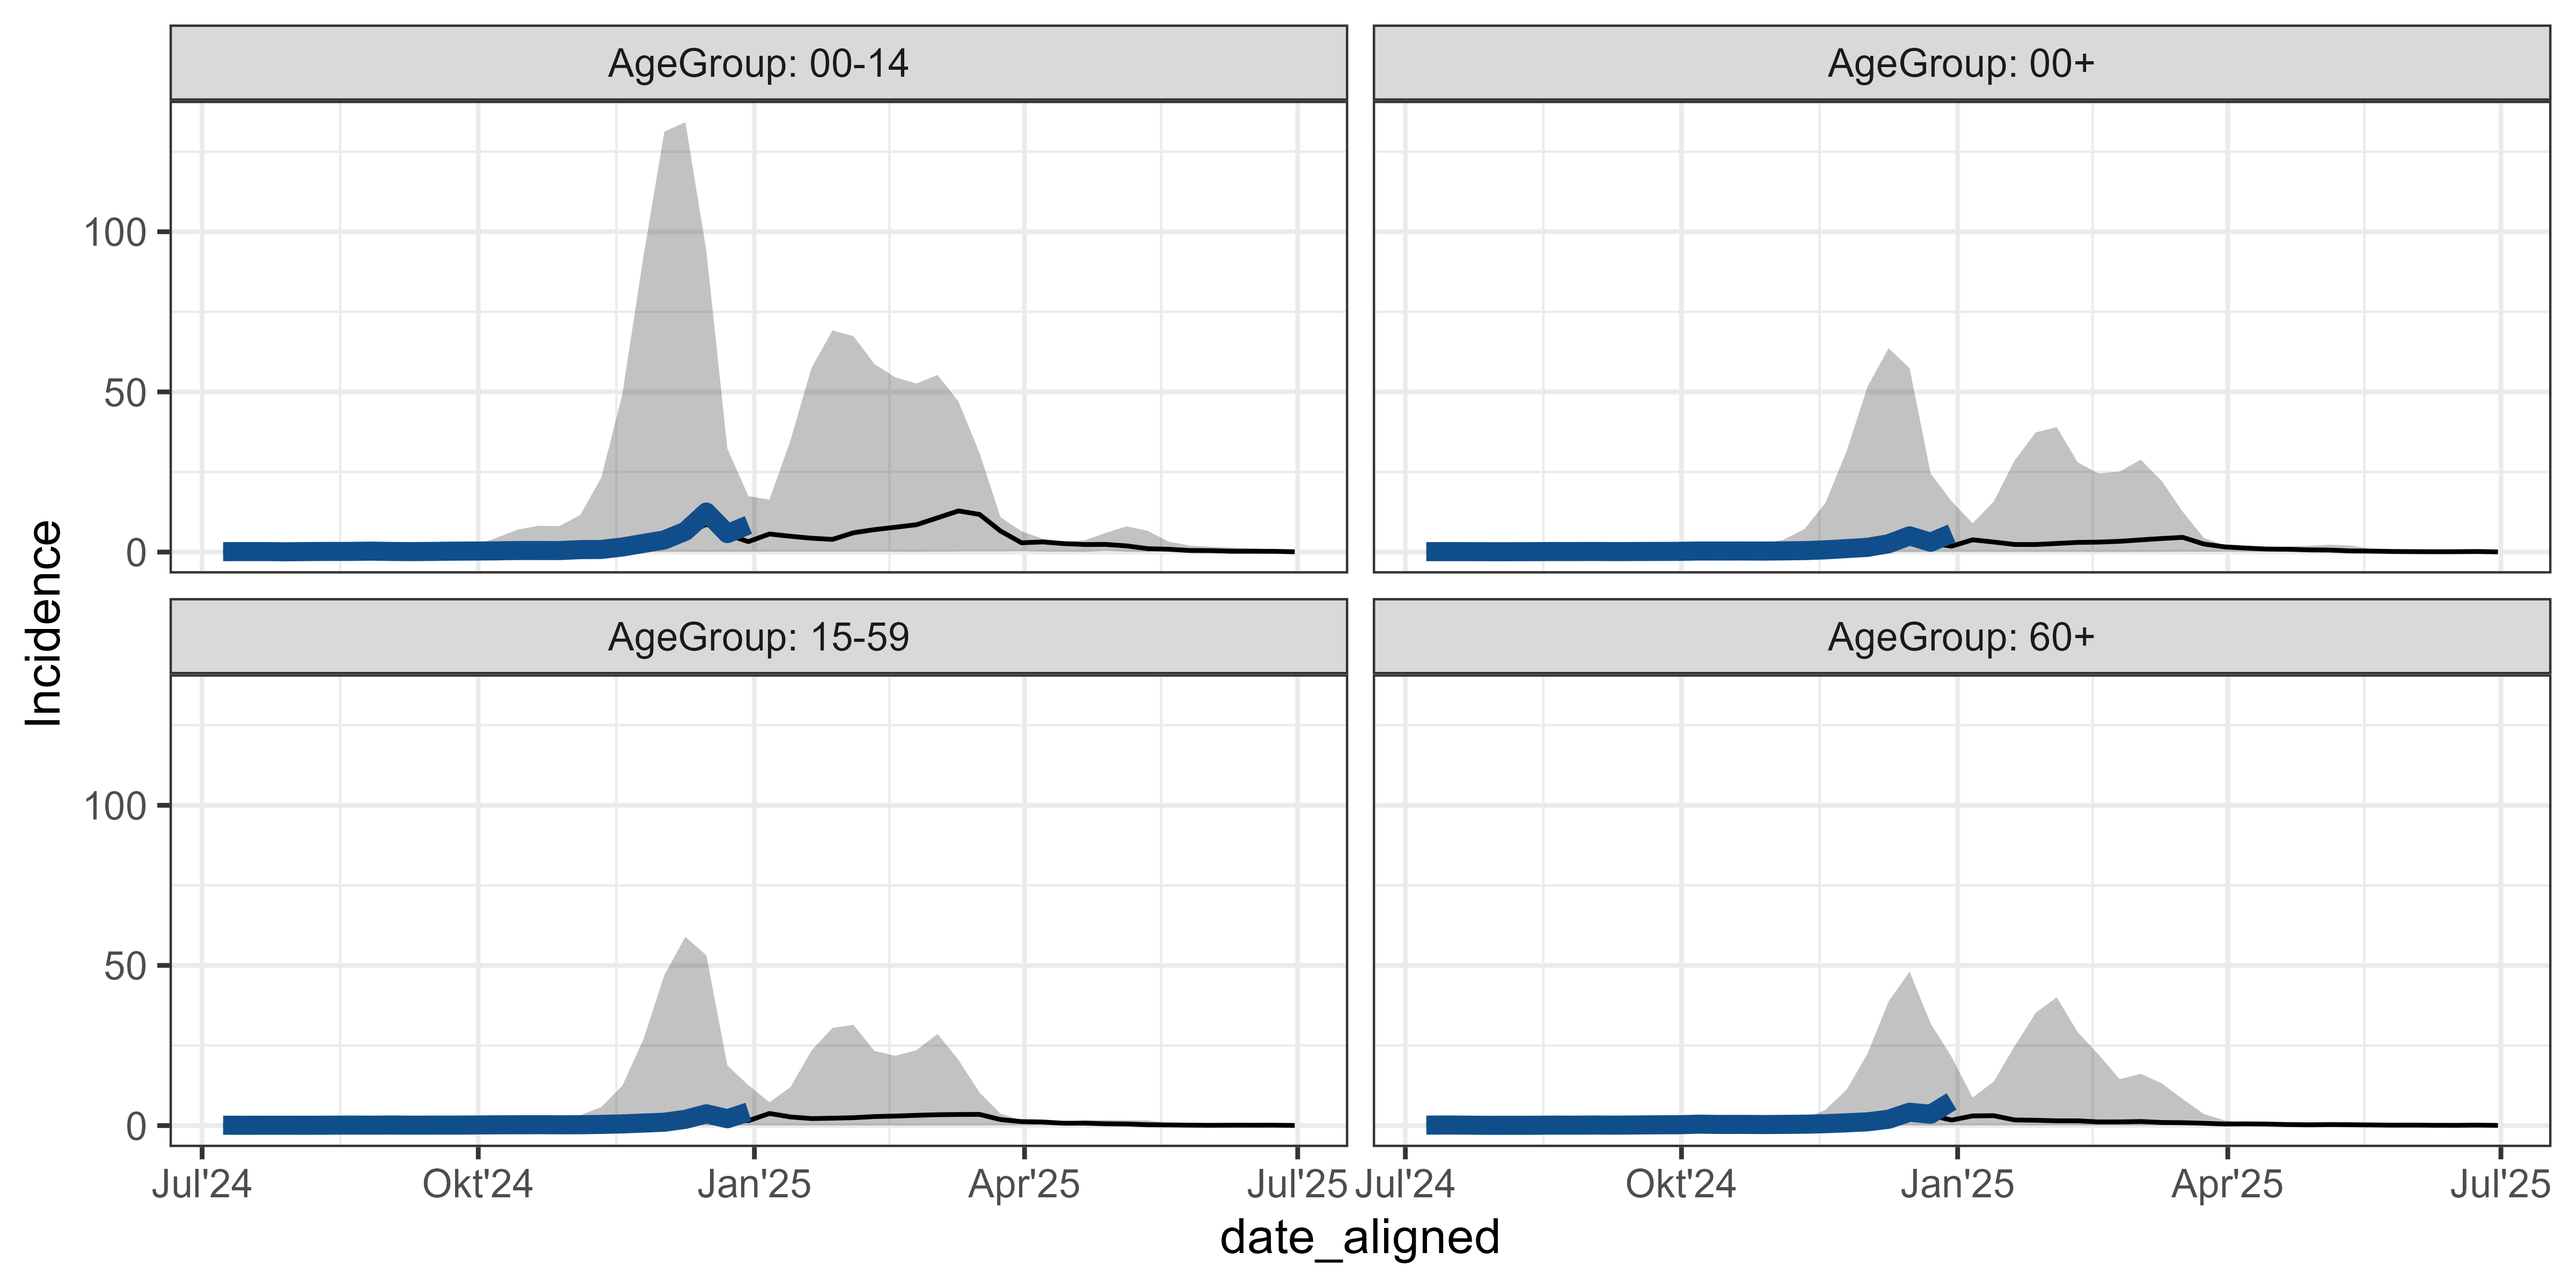
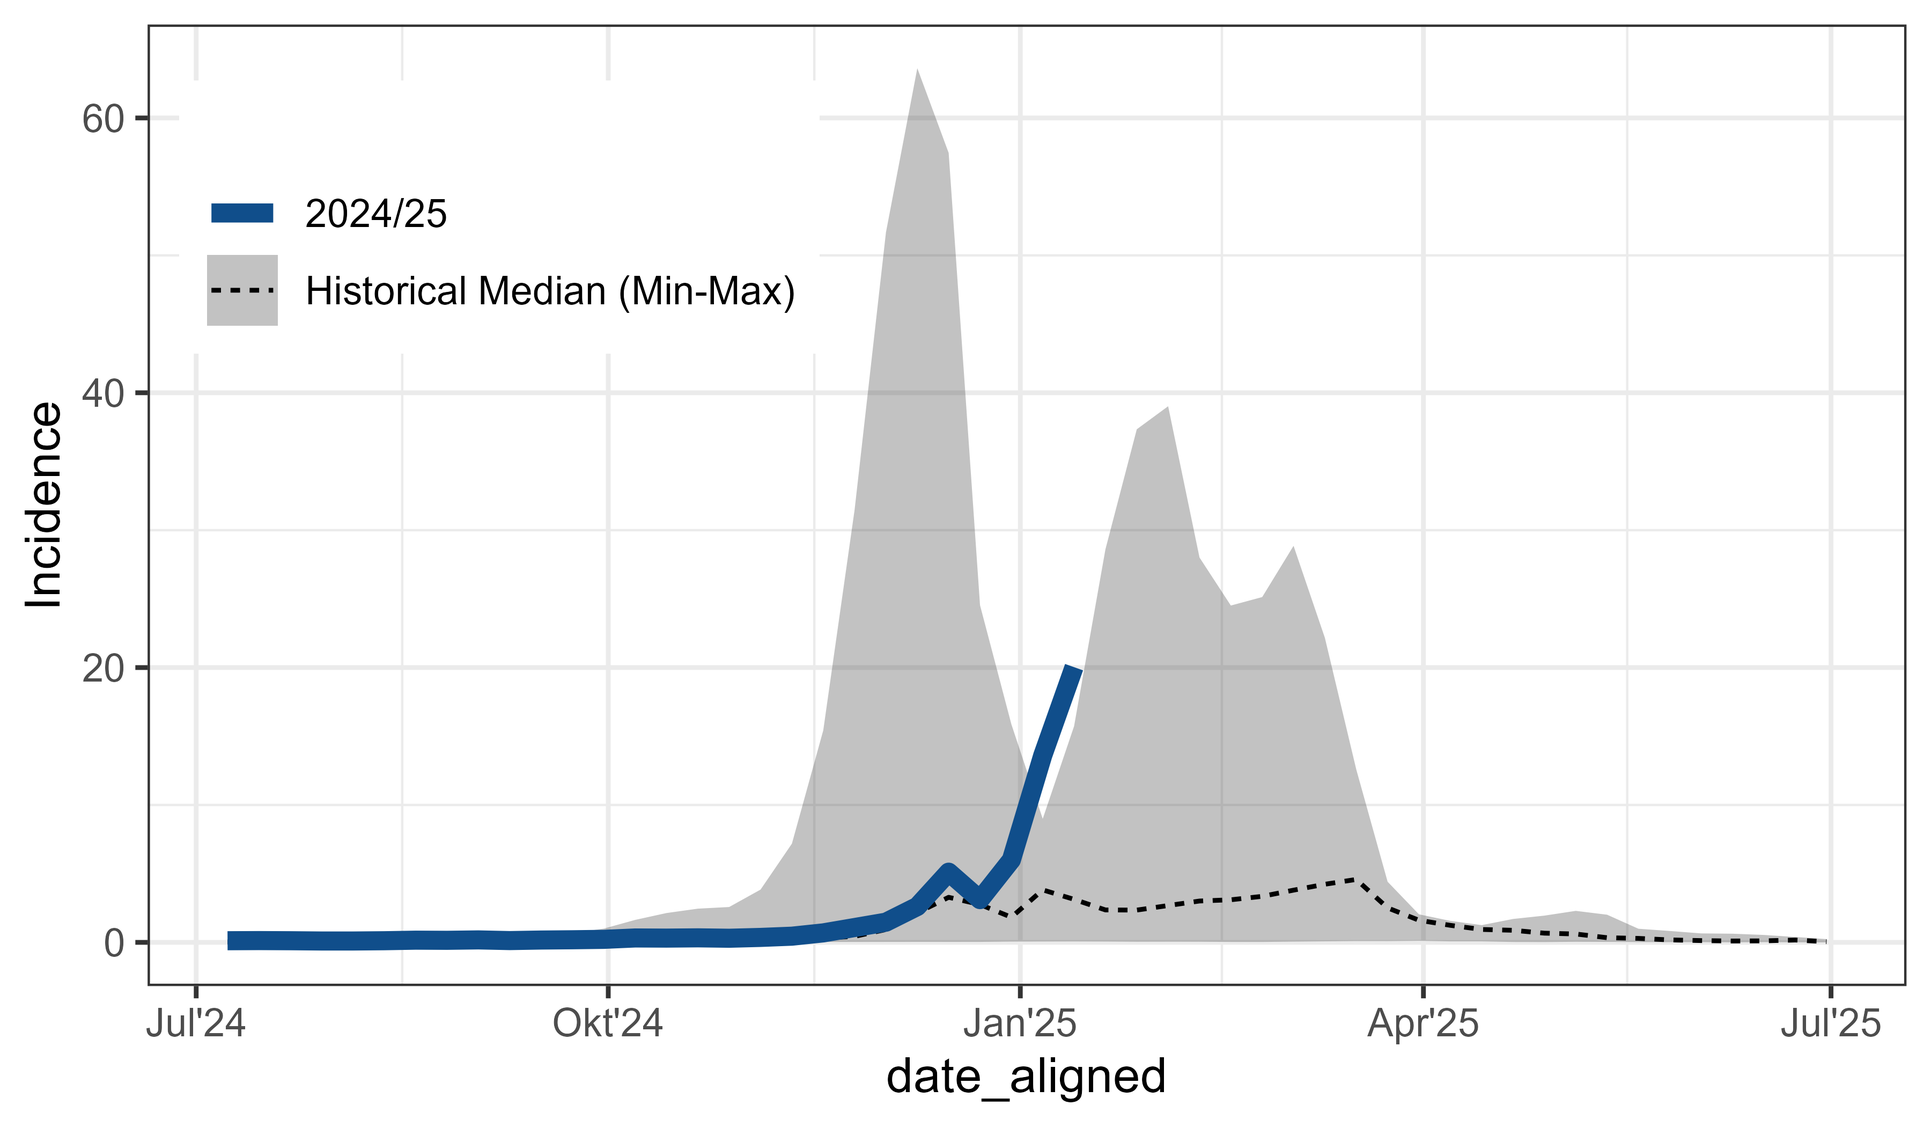
Update data dn ReadMe + CleanUp + Styler

diff --git a/README.md b/README.md
@@ -11,9 +11,10 @@
 
 This packages provides:
 
--   `geom_epicurve()` : A ggplot geom for plotting epicurves, includes date aggregation
-
+-   `geom_epicurve()` : A ggplot geom for plotting epicurves
+    -   including `state_bin_date()` for date interval (week, month etc.) based binning of case numbers with perfect alignment with i.e. reporting week. 
     -   including `scale_y_cases_5er()` for better (case) count axis breaks and positioning.
+    -   including `geom_vline_year()`, which automatically detects the turn of the year(s) from the date or datetime axis and draws a vertical line.
 
 -   `align_dates_seasonal()` : Align surveillance data for seasonal plots (e.g. flu season).
 
@@ -52,20 +53,24 @@ library(ggplot2)
 library(ggsurveillance)
 
 influenza_germany |>
+  filter(AgeGroup == "00+") |>
   align_dates_seasonal(dates_from = ReportingWeek,
                        date_resolution = "isoweek",
                        start = 28) -> df_flu_aligned
 
 ggplot(df_flu_aligned, aes(x = date_aligned, y = Incidence)) +
-  stat_summary(data = . %>% filter(!current_season), fun.data = median_hilow,
-               geom = "ribbon", alpha = 0.3) +
-  stat_summary(data = . %>% filter(!current_season), fun = median,
-               geom = "line") +
-  geom_line(data = . %>% filter(current_season), color = "dodgerblue4", 
-            linewidth = 2) +
+  stat_summary(
+    aes(linetype = "Historical Median (Min-Max)"), data = . %>% filter(!current_season), 
+    fun.data = median_hilow, geom = "ribbon", alpha = 0.3) +
+  stat_summary(
+    aes(linetype = "Historical Median (Min-Max)"), data = . %>% filter(!current_season), 
+    fun = median, geom = "line") +
+  geom_line(
+    aes(linetype = "2024/25"), data = . %>% filter(current_season), colour = "dodgerblue4", linewidth = 2) +
+  labs(linetype = "") +
   scale_x_date(date_labels = "%b'%y") +
-  facet_wrap(~AgeGroup, labeller = label_both) +
-  theme_bw()
+  theme_bw() +
+  theme(legend.position = c(0.2,0.8))
 ```
 
 ![Seasonal influenza data from Germany by Age Group](man/figures/seasonal_plot_readme.png)
